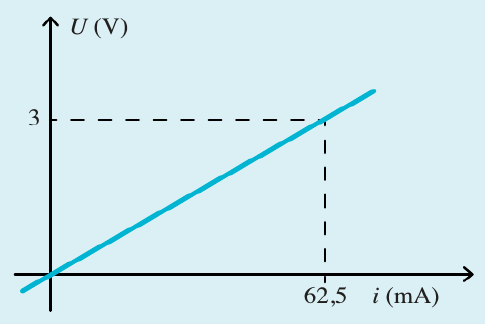
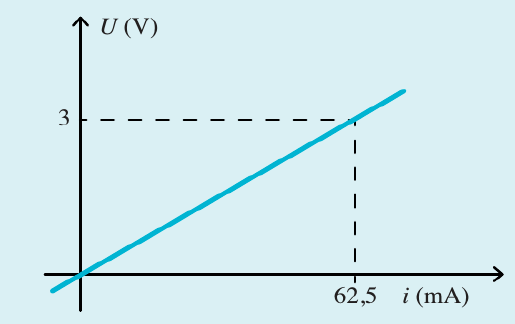
Dipolii si spectrele: doua justificari erau gresite, figurile exista in carte
Trecerea stricta a prins ce ratasem: din cele trei figuri ale capitolului 3
declarate „fara corespondent in manual", DOUA erau declarate gresit.

  „Studiul unui circuit" (carte p. 38, Liceul Louis-le-Grand). Justificarea
  veche spunea ca manualul deseneaza un singur ochi. Fals: figura tiparita are
  exact cele doua ramuri in derivatie cerute de rezolvare. Statea calare pe
  cotitura paginii, deci fusese probabil vazuta ciuntita. Decupata acum, cu
  fasia impara marita pana la y=360, altfel se taia sageata lui u2.

  „Caracteristica exercitiului-tip" (carte p. 33). Graficul exista. Manualul
  insa a reciclat acolo desenul altui exercitiu si a lasat citirile 3 V si
  62,5 mA, desi enuntul da punctul M (20,0 mA ; 4,00 V) — iar rezolvarea de
  dedesubt calculeaza chiar R = 200 ohmi cu valorile din enunt. Decupajul e
  pastrat, iar cele doua numere gresite ale cartii sunt acoperite cu etichete
  si scrise corect. E chiar felul de reparatie pe care il permite metoda:
  geometria ramane a cartii, textul se corecteaza deasupra.

A treia, dreapta prin origine, chiar n-are corespondent: paragraful 4 de la
p. 30-31 enunta definitia conductorului ohmic fara s-o deseneze, iar singurele
drepte prin origine din capitol apartin altor exercitii si sunt deja folosite
acolo.

Capitolul 6: inventarul complet al figurilor, pagina cu pagina. Toate sunt deja
decupate. Reteaua de difractie si banda vizibilului nu sunt desenate nicaieri
in carte — p. 101 e integral text.
[…]

diff --git a/src/components/Schema/dipoli-electrici.jsx b/src/components/Schema/dipoli-electrici.jsx
@@ -1,7 +1,5 @@
 import React from 'react';
-import {
-  Schema, Fir, Nod, Rezistor, Pila, Ampermetru, Text, Simbol, CULORI,
-} from './index';
+import { Schema, Text, Simbol, CULORI } from './index';
 
 /**
  * CE A MAI RĂMAS DESENAT DIN CAPITOLUL DIPOLILOR ELECTRICI (C7–C9, LP7–LP9).
@@ -9,31 +7,24 @@ import {
  * Figurile capitolului au fost la început redesenate în SVG. Redesenarea
  * păstrează topologia și valorile, dar nu unghiurile și proporțiile, iar
  * autorul a cerut fidelitate: „graficele trebuie făcute întocmai cu ce e în
- * carte; dacă nu, poți cropa imaginea direct". Așa că aproape toate au fost
- * înlocuite cu DECUPAJE din manual, afișate cu `<FiguraManual>` și cu
- * etichetele franțuzești acoperite de etichete românești.
+ * carte; dacă nu, poți cropa imaginea direct". Așa că toate figurile care au
+ * un corespondent tipărit au fost înlocuite cu DECUPAJE din manual, afișate cu
+ * `<FiguraManual>`.
  *
- * Aici au rămas trei figuri, fiindcă decupajul nu avea ce să decupeze:
+ * A rămas o singură figură desenată, fiindcă decupajul nu avea ce să decupeze:
  *
- * 1. `FigDreaptaPrinOrigine` — manualul enunță definiția conductorului ohmic
- *    („caracteristica lui este o dreaptă care trece prin origine”) fără să o
- *    și deseneze. Figura e făcută pentru lecție, nu copiată din carte.
+ * `FigDreaptaPrinOrigine` — paragraful 4 al cursului, „Le conducteur ohmique",
+ * începe în josul paginii 30 a manualului și cuprinde numai Définition 2:
+ * „Un conducteur ohmique est un dipôle dont la caractéristique est une droite
+ * passant par l'origine." Pagina 31 continuă direct cu propoziția „La tension
+ * U aux bornes de la résistance est donc proportionnelle à l'intensité I" și
+ * cu caseta À RETENIR a legii lui Ohm; singurele desene de pe pagina 31 sunt
+ * cele două convenții de orientare (receptor și generator), deja folosite ca
+ * `c03-conventie.png`. Manualul enunță deci definiția fără să o și deseneze,
+ * iar graficul de mai jos e făcut pentru lecție.
  *
- * 2. `FigCaracteristicaExercitiuTip` — manualul PUNE o figură în rezolvarea
- *    exercițiului-tip, dar e greșită: arată punctul (62,5 mA ; 3,0 V) al
- *    probei 4, deși exercițiul-tip cere punctul M (20,0 mA ; 4,00 V), iar
- *    calculul de dedesubt dă 200 Ω, nu 48 Ω. Decupajul ar fi adus greșeala în
- *    lecție, așa că graficul rămâne desenat, cu punctul corect.
- *
- * 3. `FigStudiulCircuitului` — figura din manual arată un singur ochi: R în
- *    stânga, apoi R₂ și ampermetrul înseriate pe ramura de jos. Dar rezolvarea
- *    aceleiași probe scrie legea nodurilor, `i = i₁ + i₂`, și citește pe
- *    ampermetru `i₁ = 100 mA` — ceea ce cere DOUĂ ramuri în derivație, nu una.
- *    Figura tipărită se contrazice cu propria ei rezolvare, deci circuitul
- *    rămâne desenat, cu ramura care lipsește din carte.
- *
- * Uneltele de mai jos (axe, caroiaj, linii de citire) sunt cele de care au
- * nevoie figurile rămase; restul au plecat odată cu figurile lor.
+ * Uneltele de mai jos (axe, caroiaj) sunt cele de care are nevoie figura
+ * rămasă; restul au plecat odată cu figurile lor.
  */
 
 const VIN = 'var(--kl-vin)';
@@ -97,19 +88,6 @@ function Axe({ ox, oy, st = 0, dr = 200, sus = 150, jos = 0 }) {
   );
 }
 
-/** Linie de construcție întreruptă (citirea unui punct pe grafic). */
-function Punctata({ x1, y1, x2, y2 }) {
-  return (
-    <path
-      d={`M ${x1} ${y1} L ${x2} ${y2}`}
-      stroke={CULORI.slab}
-      strokeWidth={1.1}
-      strokeDasharray="5 4"
-      fill="none"
-    />
-  );
-}
-
 /* ══════════════════════════════════════════════════════════════════════════
    C7 — DIPOLUL ELECTRIC
    ══════════════════════════════════════════════════════════════════════════ */
@@ -131,93 +109,6 @@ export function FigDreaptaPrinOrigine() {
       <Text x={OX - 8} y={160} ancora="end" marime={12}>0</Text>
       <Simbol x={OX + 12} y={44} ancora="start" dupa={" (V)"}>U</Simbol>
       <Simbol x={272} y={164} ancora="end" dupa={" (A)"}>I</Simbol>
-    </Schema>
-  );
-}
-
-/* ══════════════════════════════════════════════════════════════════════════
-   C8 — LEGEA LUI OHM
-   ══════════════════════════════════════════════════════════════════════════ */
-
-/** Caracteristica din exercițiul-tip: dreaptă prin origine și prin M(20,0 mA ; 4,00 V). */
-export function FigCaracteristicaExercitiuTip() {
-  const OX = 80;
-  const OY = 160;
-  return (
-    <Schema
-      vb="0 0 340 215"
-      latime={340}
-      eticheta="Dreaptă prin origine care trece prin punctul de coordonate 20 mA și 4 V"
-      legenda="Caracteristica dipolului din exercițiul-tip: o dreaptă prin origine, prin punctul M."
-    >
-      <Axe ox={OX} oy={OY} st={30} dr={240} sus={120} jos={30} />
-      <path d="M 58 175 L 290 20" fill="none" stroke={VIN} strokeWidth={2.2} strokeLinecap="round" />
-      <Punctata x1={OX} y1={60} x2={230} y2={60} />
-      <Punctata x1={230} y1={60} x2={230} y2={OY} />
-      <circle cx={230} cy={60} r={3.6} fill={VIN} />
-      <Text x={244} y={54} ancora="start" marime={13}>M</Text>
-      <Text x={OX - 8} y={64} ancora="end" marime={12}>4,00</Text>
-      <Text x={230} y={180} ancora="middle" marime={12}>20,0</Text>
-      <Text x={OX - 8} y={176} ancora="end" marime={12}>0</Text>
-      <Simbol x={OX + 12} y={48} ancora="start" dupa={" (V)"}>U</Simbol>
-      <Simbol x={318} y={182} ancora="end" dupa={" (mA)"}>I</Simbol>
-    </Schema>
-  );
-}
-
-/* ══════════════════════════════════════════════════════════════════════════
-   LP8 — LEGEA LUI OHM ÎN CIRCUIT
-   ══════════════════════════════════════════════════════════════════════════ */
-
-/**
- * Circuitul probei 4: o ramură cu R, apoi două ramuri în derivație.
- *
- * Manualul desenează aici un singur ochi — R₂ și ampermetrul unul după altul
- * pe ramura de jos — dar rezolvarea lui cere un nod din care pleacă doi
- * curenți, i₁ prin ampermetru și i₂ prin R₂. Figura de mai jos e cea care se
- * potrivește cu rezolvarea.
- */
-export function FigStudiulCircuitului() {
-  return (
-    <Schema
-      vb="0 0 430 250"
-      latime={430}
-      eticheta="Generator, un conductor ohmic R pe ramura din stânga, apoi două ramuri în derivație, una cu R1 și ampermetru, alta cu R2"
-      legenda="Se dau R₂ = 100 Ω, R = 50 Ω, U₂ = 4,0 V, iar ampermetrul arată 100 mA."
-    >
-      <Fir d="M 60 40 L 380 40" />
-      <Pila x={220} y={40} />
-      <Sageata x1={318} y1={62} x2={262} y2={62} />
-      <Simbol x={290} y={55}>U_0</Simbol>
-
-      <Fir d="M 60 40 L 60 195" />
-      <Rezistor x={60} y={85} vertical />
-      <Simbol x={38} y={89}>R</Simbol>
-      <Sageata x1={60} y1={44} x2={60} y2={60} />
-      <Simbol x={47} y={56}>I</Simbol>
-      <Sageata x1={95} y1={110} x2={95} y2={62} />
-      <Simbol x={108} y={89}>U</Simbol>
-
-      <Fir d="M 60 120 L 380 120" />
-      <Rezistor x={160} y={120} />
-      <Simbol x={160} y={106}>R_1</Simbol>
-      <Ampermetru x={285} y={120} r={16} borne="A-COM" />
-      <Sageata x1={95} y1={120} x2={117} y2={120} />
-      <Simbol x={106} y={110}>I_1</Simbol>
-      <Sageata x1={188} y1={146} x2={132} y2={146} />
-      <Simbol x={160} y={162}>U_1</Simbol>
-
-      <Fir d="M 60 195 L 380 195" />
-      <Rezistor x={160} y={195} />
-      <Simbol x={160} y={181}>R_2</Simbol>
-      <Sageata x1={95} y1={195} x2={117} y2={195} />
-      <Simbol x={106} y={185}>I_2</Simbol>
-      <Sageata x1={188} y1={221} x2={132} y2={221} />
-      <Simbol x={160} y={237}>U_2</Simbol>
-
-      <Fir d="M 380 40 L 380 195" />
-      <Nod x={60} y={120} />
-      <Nod x={380} y={120} />
     </Schema>
   );
 }
